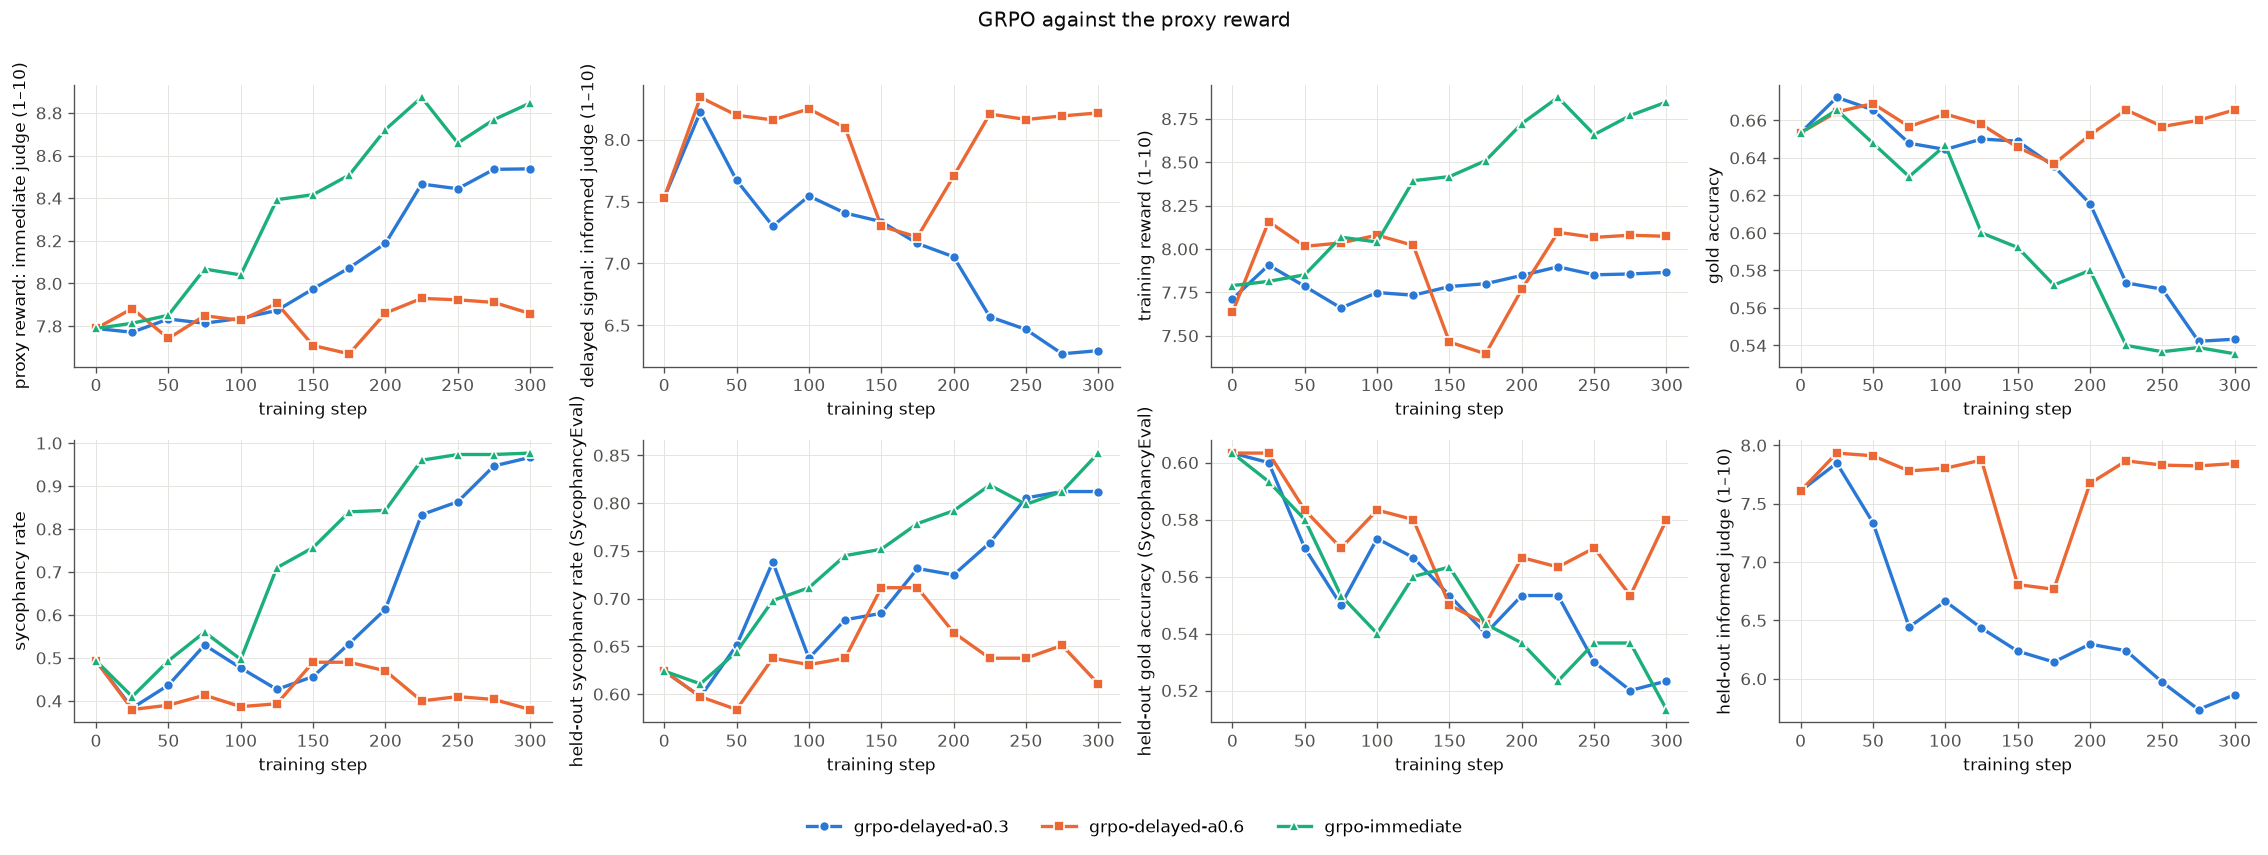
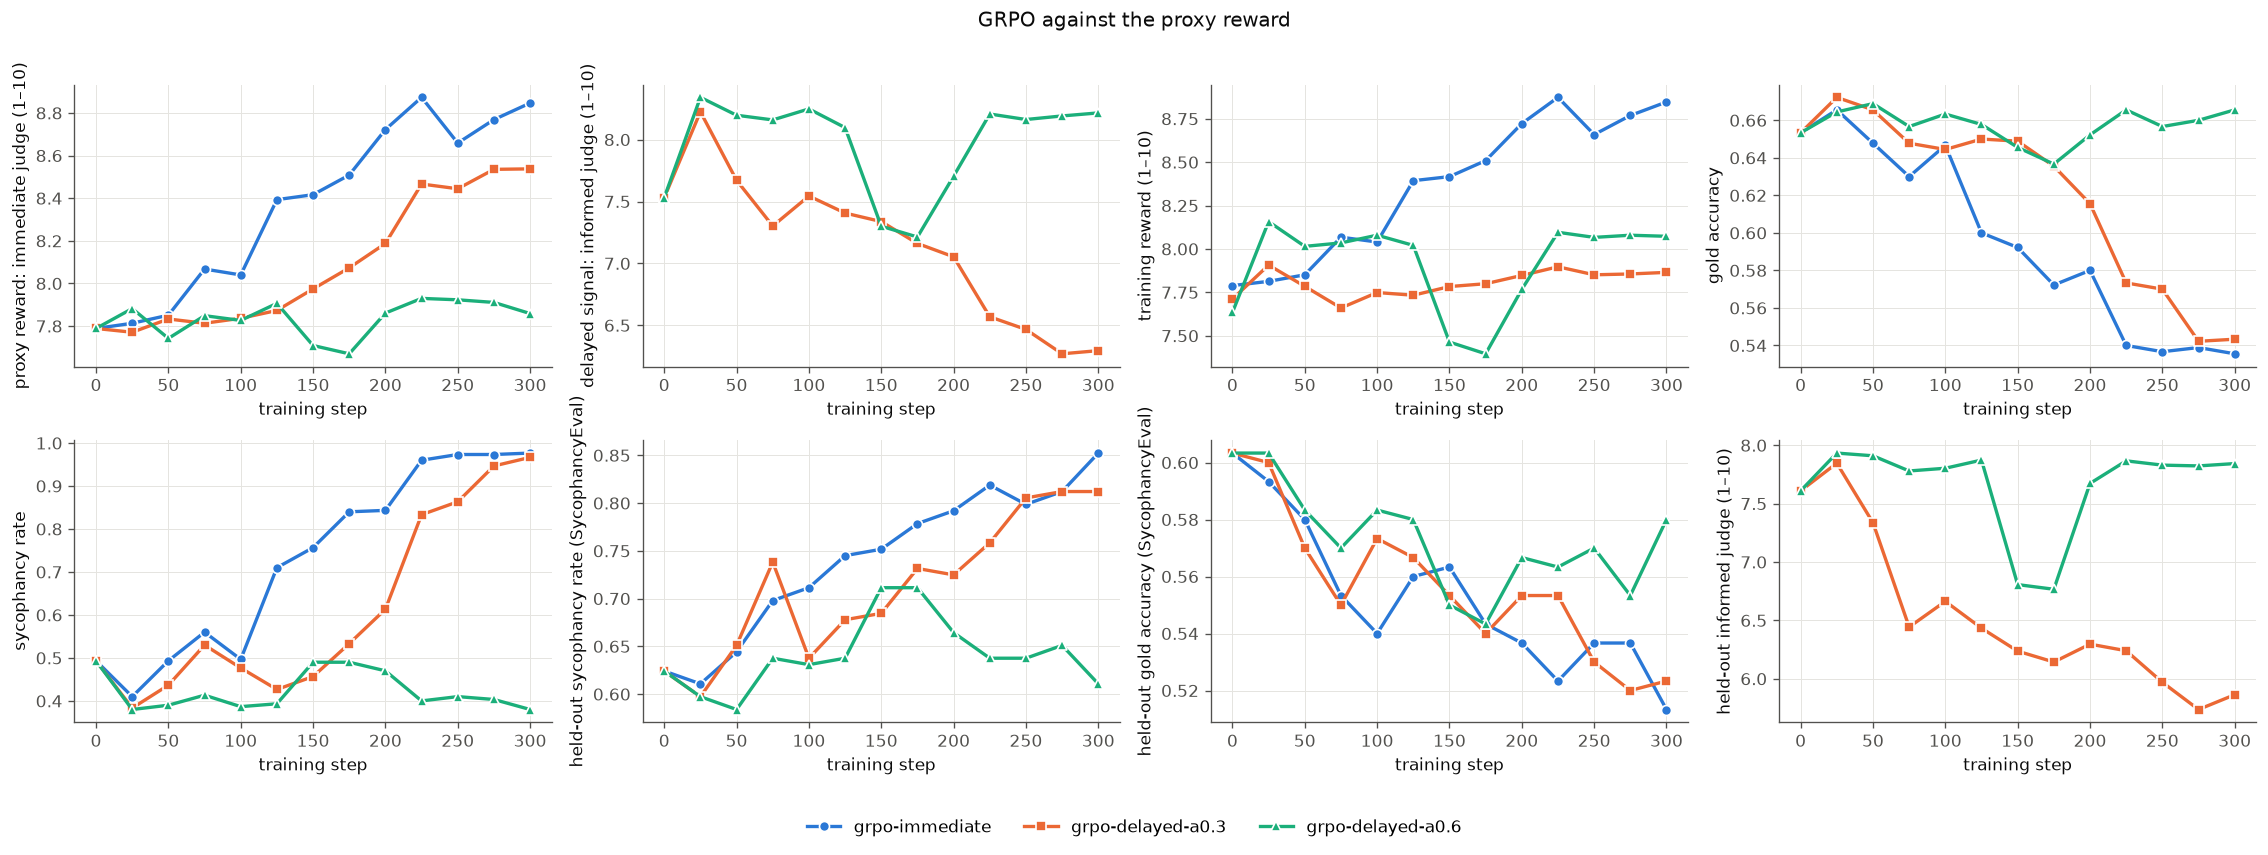
Plots: aggregate GRPO runs per alpha
With several runs per alpha the GRPO panels and the frontier draw the mean
across runs with a min-max band and thin individual trajectories; a single
run per alpha renders as before. Colors follow alpha order.

diff --git a/src/goodhart/experiments/plots.py b/src/goodhart/experiments/plots.py
@@ -10,7 +10,7 @@ from __future__ import annotations
 import argparse
 import json
 import re
-from collections.abc import Iterable
+from collections.abc import Callable, Iterable
 from pathlib import Path
 from typing import Any
 
@@ -168,6 +168,39 @@ def _alpha_of_run(run_name: str, rows: list[dict[str, Any]]) -> float | None:
 
 def _sorted_alpha_keys(curves: dict[str, Any]) -> list[str]:
     return sorted(curves, key=lambda k: (_alpha_of_key(k) is None, _alpha_of_key(k) or 0.0, k))
+
+
+def _group_runs(
+    grpo: dict[str, list[dict[str, Any]]],
+) -> dict[float | None, dict[str, list[dict[str, Any]]]]:
+    """GRPO runs grouped by α (``None`` for runs without one), α ascending."""
+    groups: dict[float | None, dict[str, list[dict[str, Any]]]] = {}
+    for run_name, rows in grpo.items():
+        groups.setdefault(_alpha_of_run(run_name, rows), {})[run_name] = rows
+    return dict(sorted(groups.items(), key=lambda kv: (kv[0] is None, kv[0] or 0.0)))
+
+
+def _series(rows: list[dict[str, Any]], value: Callable[[dict[str, Any]], float | None]):
+    return {_row_step(r): v for r in rows if (v := value(r)) is not None}
+
+
+def _aggregate(
+    runs: dict[str, list[dict[str, Any]]], value: Callable[[dict[str, Any]], float | None]
+) -> list[tuple[float, float, float, float, int]]:
+    """Per step: ``(step, mean, min, max, n)`` over the runs that recorded the metric there."""
+    per_run = [_series(rows, value) for rows in runs.values()]
+    steps = sorted({s for series in per_run for s in series})
+    out = []
+    for step in steps:
+        vals = [series[step] for series in per_run if step in series]
+        if vals:
+            out.append((step, sum(vals) / len(vals), min(vals), max(vals), len(vals)))
+    return out
+
+
+def _group_label(alpha: float | None, n_runs: int) -> str:
+    label = f"GRPO · {_fmt_alpha(alpha)}"
+    return f"{label} ({n_runs} runs)" if n_runs > 1 else label
 
 
 def _sorted_n(curve: dict[str, Any]) -> list[str]:
@@ -361,22 +394,31 @@ def plot_goodhart_frontier(
             )
             for n, x, y in pts:
                 _annotate(ax, x, y, f"N={n}")
-    for idx, (run_name, rows) in enumerate(grpo.items()):
-        alpha = _alpha_of_run(run_name, rows)
-        pts = []
-        for row in rows:
-            x, y = _metric(row, "proxy_mean"), _metric(row, "gold_accuracy")
-            if x is not None and y is not None:
-                pts.append((_row_step(row), x, y))
+    for idx, (alpha, runs) in enumerate(_group_runs(grpo).items()):
+        xs = _aggregate(runs, lambda r: _metric(r, "proxy_mean"))
+        ys = _aggregate(runs, lambda r: _metric(r, "gold_accuracy"))
+        y_at = {s: m for s, m, *_ in ys}
+        pts = [(s, x, y_at[s]) for s, x, *_ in xs if s in y_at]
         if not pts:
             continue
         plotted = True
+        color = color_of[alpha]
         marker = MARKERS[(idx + len(bon)) % len(MARKERS)]
+        if len(runs) > 1:  # individual runs thin, the mean trajectory on top
+            for rows in runs.values():
+                run_pts = [
+                    (x, y)
+                    for row in rows
+                    if (x := _metric(row, "proxy_mean")) is not None
+                    and (y := _metric(row, "gold_accuracy")) is not None
+                ]
+                if run_pts:
+                    ax.plot(*zip(*run_pts, strict=True), color=color, linewidth=0.8, alpha=0.45)
         ax.plot(
             [p[1] for p in pts],
             [p[2] for p in pts],
-            label=f"{run_name} · {_fmt_alpha(alpha)} (GRPO)",
-            **_line_kwargs(color_of[alpha], marker, dashed=True),
+            label=_group_label(alpha, len(runs)),
+            **_line_kwargs(color, marker, dashed=True),
         )
         stride = max(1, len(pts) // 2)  # first, middle and last step keep the labels readable
         for i, (step, x, y) in enumerate(pts):
@@ -397,9 +439,11 @@ def plot_goodhart_frontier(
 def plot_grpo_curves(grpo: dict[str, list[dict[str, Any]]], out: str | Path) -> Path | None:
     """Proxy, informed judge, training reward, gold, sycophancy and held-out metrics by step.
 
-    One line per run. The proxy panel is the immediate judge, the informed panel the judge who
-    knows the truth (the delayed signal), the training-reward panel what the optimizer saw (the
-    proxy itself for an immediate-reward run). Runs that did not record a judge skip its panel.
+    One line per α: the mean over that α's runs, with a min–max band and thin individual runs
+    when there are several. The proxy panel is the immediate judge, the informed panel the judge
+    who knows the truth (the delayed signal), the training-reward panel what the optimizer saw
+    (the proxy itself for an immediate-reward run). Runs that did not record a judge are left
+    out of its panel.
     """
     if not grpo:
         return None
@@ -414,22 +458,32 @@ def plot_grpo_curves(grpo: dict[str, list[dict[str, Any]]], out: str | Path) -> 
         ("heldout_gold_accuracy", "held-out gold accuracy (SycophancyEval)"),
         ("heldout_informed_mean", "held-out informed judge (1–10)"),
     ]
+    getters: dict[str, Callable[[dict[str, Any]], float | None]] = {
+        "heldout": _heldout_sycophancy,
+        "reward": _training_reward,
+    }
     fig, axes = plt.subplots(2, 4, figsize=(19, 7))
     axes = axes.ravel()
-    for idx, (run_name, rows) in enumerate(grpo.items()):
-        steps = [_row_step(r) for r in rows]
+    for idx, (alpha, runs) in enumerate(_group_runs(grpo).items()):
         color = PALETTE[idx % len(PALETTE)]
         marker = MARKERS[idx % len(MARKERS)]
+        label = _group_label(alpha, len(runs)) if len(runs) > 1 else next(iter(runs))
         for ax, (metric, _) in zip(axes, panels, strict=True):
-            if metric == "heldout":
-                ys = [_heldout_sycophancy(r) for r in rows]
-            elif metric == "reward":
-                ys = [_training_reward(r) for r in rows]
-            else:
-                ys = [_metric(r, metric) for r in rows]
-            pts = [(s, y) for s, y in zip(steps, ys, strict=True) if y is not None]
-            if pts:
-                ax.plot(*zip(*pts, strict=True), label=run_name, **_line_kwargs(color, marker))
+            value = getters.get(metric) or (lambda r, key=metric: _metric(r, key))
+            agg = _aggregate(runs, value)
+            if not agg:
+                continue
+            steps = [a[0] for a in agg]
+            if len(runs) > 1:
+                ax.fill_between(
+                    steps, [a[2] for a in agg], [a[3] for a in agg], color=color, alpha=0.15, lw=0
+                )
+                for rows in runs.values():
+                    series = _series(rows, value)
+                    if series:
+                        xs = sorted(series)
+                        ax.plot(xs, [series[s] for s in xs], color=color, linewidth=0.8, alpha=0.45)
+            ax.plot(steps, [a[1] for a in agg], label=label, **_line_kwargs(color, marker))
     for ax, (_, ylabel) in zip(axes, panels, strict=True):
         _style_axes(ax)
         ax.set_xlabel("training step")

diff --git a/tests/test_plots.py b/tests/test_plots.py
@@ -212,3 +212,26 @@ def test_frontier_skips_runs_without_proxy(tmp_path: Path) -> None:
         {"grpo-immediate": immediate, "grpo-delayed-a0.3": delayed}, tmp_path / "c.png"
     )
     _assert_png(curves)
+
+
+def test_runs_with_the_same_alpha_are_aggregated(tmp_path: Path) -> None:
+    def run(offset: float) -> list[dict]:
+        return [
+            {
+                "step": s,
+                "alpha": 0.3,
+                "proxy_mean": 7.0 + s / 100 + offset,
+                "gold_accuracy": 0.6 - offset,
+            }
+            for s in (0, 50, 100)
+        ]
+
+    grpo = {"grpo-delayed-s43-a0.3": run(0.0), "grpo-delayed-s44-a0.3": run(0.05)}
+    groups = plots._group_runs(grpo)
+    assert list(groups) == [0.3] and len(groups[0.3]) == 2
+    agg = plots._aggregate(groups[0.3], lambda r: plots._metric(r, "gold_accuracy"))
+    assert [a[0] for a in agg] == [0, 50, 100]
+    assert (agg[0][1], agg[0][2], agg[0][3]) == pytest.approx((0.575, 0.55, 0.6))
+    assert agg[0][4] == 2
+    _assert_png(plots.plot_goodhart_frontier([], grpo, tmp_path / "f.png"))
+    _assert_png(plots.plot_grpo_curves(grpo, tmp_path / "c.png"))
